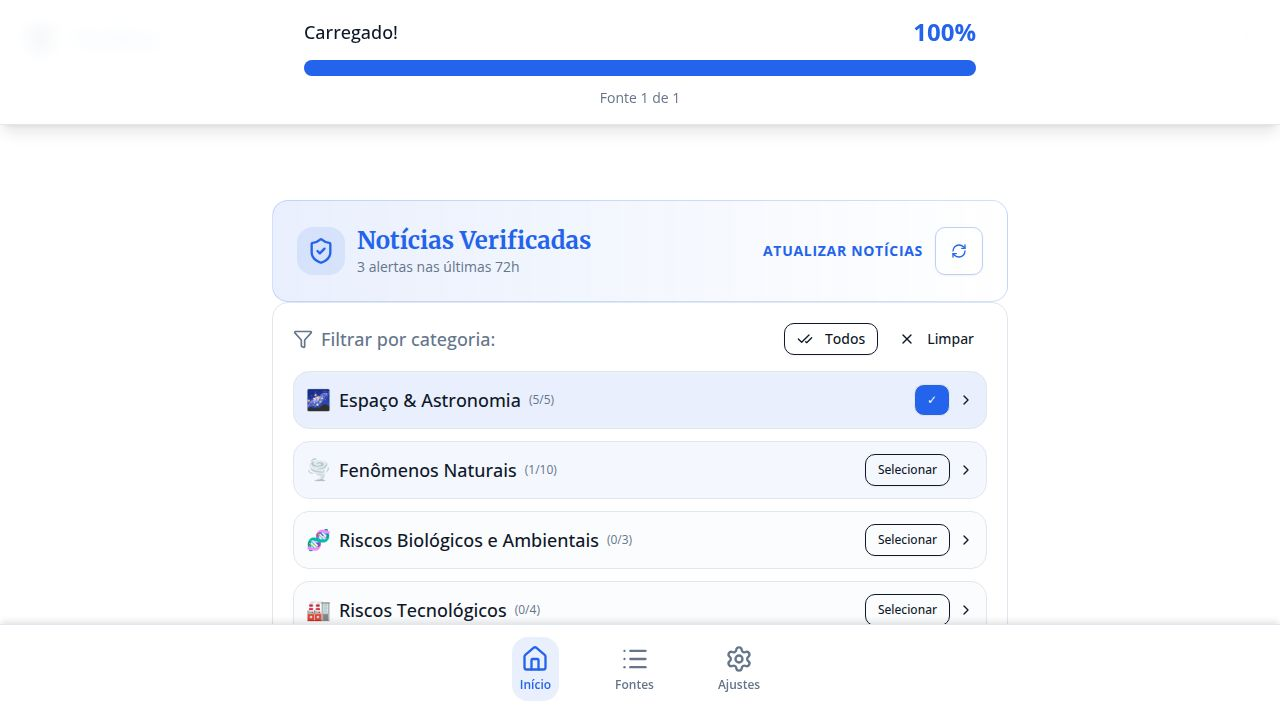
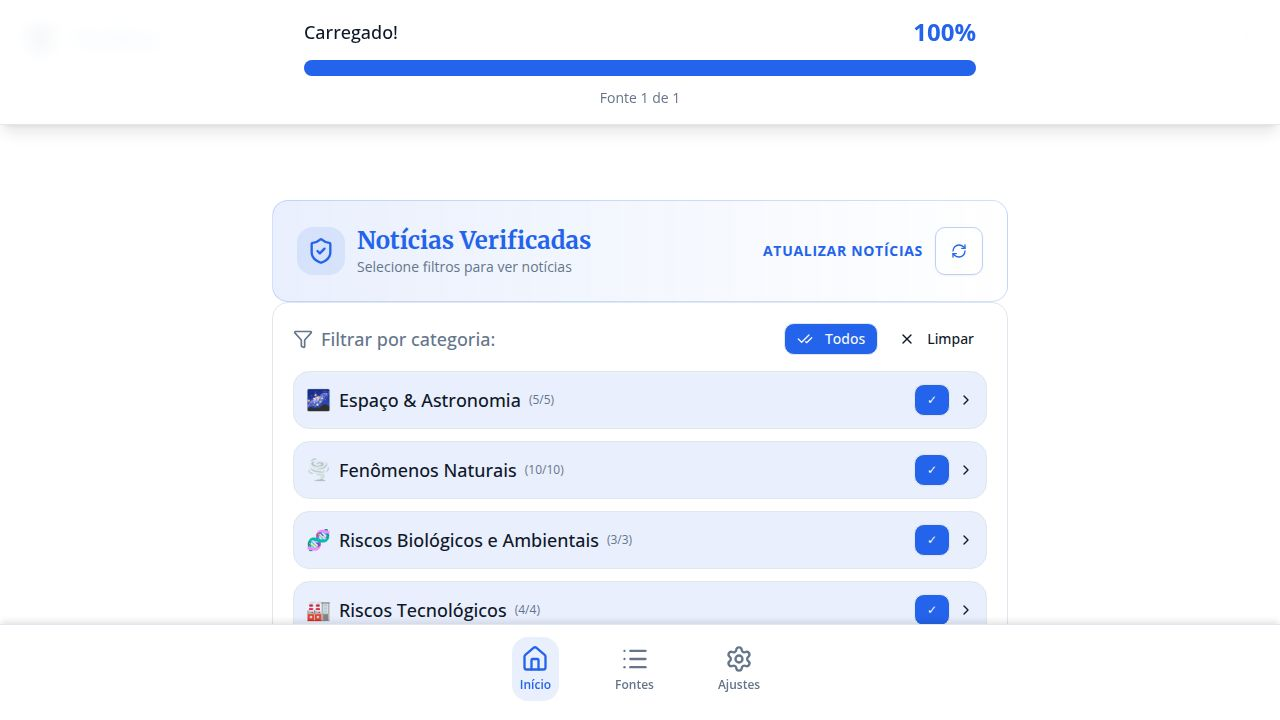
Add progress indicator and count for newly found news items
Update loading component to display news count. Modify the refresh endpoint to track and display the total news count across all sources, and enhance the `fetchRSSFromSource` function to accept an `onProgress` callback for real-time updates, incrementing `newsCount` with each processed item.

Replit-Commit-Author: Agent
Replit-Commit-Session-Id: 1c09e934-2246-44b0-a345-b696032421b5
Replit-Commit-Checkpoint-Type: full_checkpoint
Replit-Commit-Event-Id: 76515258-29f6-4574-a169-b9bd2deea518
Replit-Commit-Screenshot-Url: https://storage.googleapis.com/screenshot-production-us-central1/11a4422c-e7d3-41bc-8d45-8ff794788e7d/1c09e934-2246-44b0-a345-b696032421b5/n287IdN
Replit-Helium-Checkpoint-Created: true

diff --git a/server/routes.ts b/server/routes.ts
@@ -18,7 +18,7 @@ async function enrichNewsItems(items: any[]) {
 }
 
 // Track refresh progress for SSE
-let refreshProgress = { current: 0, total: 0, status: "idle", message: "" };
+let refreshProgress = { current: 0, total: 0, status: "idle", message: "", newsCount: 0 };
 
 export async function registerRoutes(
   httpServer: Server,
@@ -140,22 +140,34 @@ export async function registerRoutes(
       const allSources = await storage.getAllSources();
       const sourcesWithRSS = allSources.filter(s => s.rssUrl);
       
-      refreshProgress = { current: 0, total: sourcesWithRSS.length, status: "loading", message: "Iniciando..." };
+      let totalNewsCount = 0;
+      refreshProgress = { current: 0, total: sourcesWithRSS.length, status: "loading", message: "Iniciando...", newsCount: 0 };
       
       for (let i = 0; i < sourcesWithRSS.length; i++) {
         refreshProgress = { 
           current: i + 1, 
           total: sourcesWithRSS.length, 
           status: "loading", 
-          message: `Buscando: ${sourcesWithRSS[i].name}` 
+          message: `Buscando: ${sourcesWithRSS[i].name}`,
+          newsCount: totalNewsCount
         };
-        await fetchRSSFromSource(sourcesWithRSS[i].id);
+        
+        await fetchRSSFromSource(sourcesWithRSS[i].id, (stats) => {
+          totalNewsCount += stats.count;
+          refreshProgress.newsCount = totalNewsCount;
+        });
       }
       
-      refreshProgress = { current: sourcesWithRSS.length, total: sourcesWithRSS.length, status: "complete", message: "Concluído!" };
-      res.json({ success: true, message: "Feed refreshed successfully" });
+      refreshProgress = { 
+        current: sourcesWithRSS.length, 
+        total: sourcesWithRSS.length, 
+        status: "complete", 
+        message: `Concluído! ${totalNewsCount} novas notícias.`,
+        newsCount: totalNewsCount
+      };
+      res.json({ success: true, message: "Feed refreshed successfully", newsCount: totalNewsCount });
     } catch (error) {
-      refreshProgress = { current: 0, total: 0, status: "error", message: "Erro ao atualizar" };
+      refreshProgress = { current: 0, total: 0, status: "error", message: "Erro ao atualizar", newsCount: 0 };
       res.status(500).json({ error: "Failed to refresh feed" });
     }
   });

diff --git a/server/services/rss-fetcher.ts b/server/services/rss-fetcher.ts
@@ -133,7 +133,7 @@ async function verifySentinela(title: string, content: string): Promise<{
   }
 }
 
-async function generateAiSummary(title: string, content: string): Promise<{ summary: string, themes: string[] } | null> {
+async function generateAiSummary(title: string, content: string): Promise<{ summary: string, themes: string[], translatedTitle?: string } | null> {
   try {
     if (!process.env.AI_INTEGRATIONS_GEMINI_API_KEY || !process.env.AI_INTEGRATIONS_GEMINI_BASE_URL) {
       return null;
@@ -224,7 +224,7 @@ function calculateReliability(sourceType: "official" | "media" | "blog"): {
   }
 }
 
-export async function fetchRSSFromSource(sourceId: string): Promise<void> {
+export async function fetchRSSFromSource(sourceId: string, onProgress?: (stats: { count: number }) => void): Promise<void> {
   const source = await storage.getSource(sourceId);
   if (!source || !source.rssUrl) return;
 
@@ -236,6 +236,7 @@ export async function fetchRSSFromSource(sourceId: string): Promise<void> {
     
     const seventyTwoHoursAgo = new Date(Date.now() - 72 * 60 * 60 * 1000);
     let processedCount = 0;
+    let localCount = 0;
     
     for (const item of feed.items) {
       if (processedCount >= 10) break; // Limit to 10 items total per source for performance
@@ -305,6 +306,8 @@ export async function fetchRSSFromSource(sourceId: string): Promise<void> {
       const createdItem = await storage.createNewsItem(newsItem);
       console.log(`Notícia de ${source.name} aprovada: ${title.slice(0, 50)}...`);
       processedCount++;
+      localCount++;
+      if (onProgress) onProgress({ count: localCount });
       
       const aiResult = await generateAiSummary(title, content);
       if (aiResult) {
@@ -334,7 +337,9 @@ export async function fetchRSSFromSource(sourceId: string): Promise<void> {
     await storage.updateSourceLastFetched(sourceId);
     console.log(`--- Busca finalizada em ${source.name} ---\n`);
   } catch (error) {
-    console.error(`Erro ao processar fonte ${source.name}:`, error);
+    console.error(`!!! FALHA CRÍTICA NA FONTE: ${source.name} !!!`);
+    console.error(`URL RSS: ${source.rssUrl}`);
+    console.error(`Erro:`, error);
   }
 }
 

diff --git a/client/src/components/LoadingProgress.tsx b/client/src/components/LoadingProgress.tsx
@@ -31,9 +31,16 @@ export function LoadingProgress() {
             {refreshProgress.status === "loading" && (
               <Loader2 className="h-6 w-6 animate-spin text-primary" />
             )}
-            <span className="text-lg font-medium" data-testid="loading-message">
-              {refreshProgress.message || "Carregando..."}
-            </span>
+            <div className="flex flex-col">
+              <span className="text-lg font-medium" data-testid="loading-message">
+                {refreshProgress.message || "Carregando..."}
+              </span>
+              {refreshProgress.newsCount !== undefined && refreshProgress.newsCount > 0 && (
+                <span className="text-sm font-bold text-green-600 animate-pulse">
+                  +{refreshProgress.newsCount} novas notícias encontradas
+                </span>
+              )}
+            </div>
           </div>
           <span 
             className="text-2xl font-bold text-primary" 
